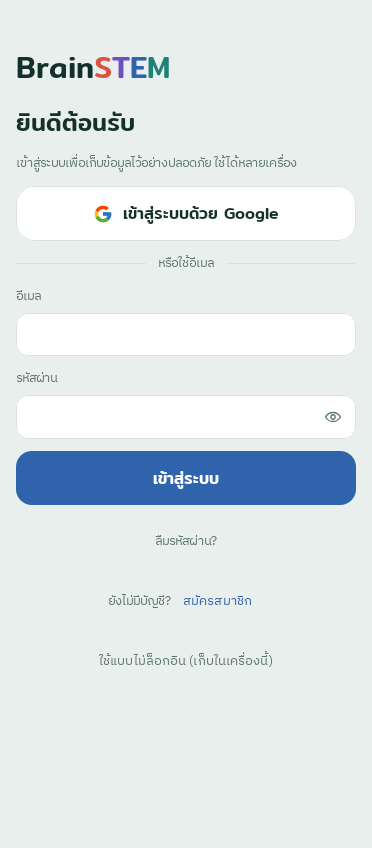
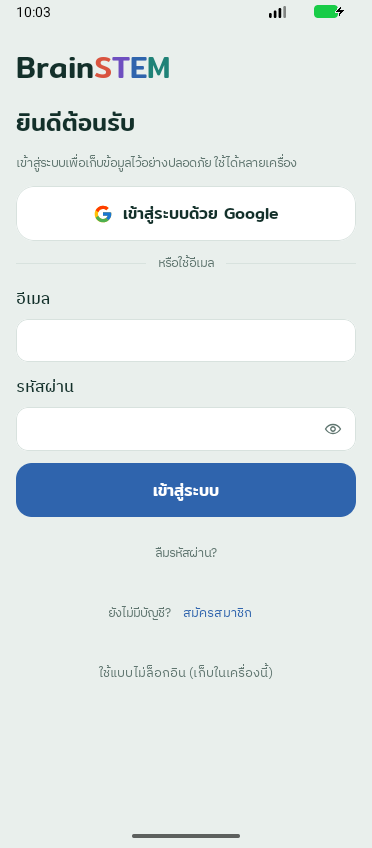
style(android): enlarge login field labels for readability

diff --git a/app/src/main/java/com/brainstem/stimulate/App.kt b/app/src/main/java/com/brainstem/stimulate/App.kt
@@ -245,11 +245,15 @@ fun LoginScreen(a: AppState, onGoogle: () -> Unit) {
             HorizontalDivider(Modifier.weight(1f), color = C.line)
         }
         Column(verticalArrangement = Arrangement.spacedBy(6.dp)) {
-            Note("อีเมล")
+            Label("อีเมล", size = 16, weight = FontWeight.Medium)
             InputField(email, { email = it }, "", KeyboardType.Email)
         }
         Column(verticalArrangement = Arrangement.spacedBy(6.dp)) {
-            Note("รหัสผ่าน" + if (signup) " (อย่างน้อย 6 ตัว)" else "")
+            Label(
+                "รหัสผ่าน" + if (signup) " (อย่างน้อย 6 ตัว)" else "",
+                size = 16,
+                weight = FontWeight.Medium,
+            )
             BasicTextField(
                 password,
                 { password = it },

diff --git a/docs/parity.md b/docs/parity.md
@@ -23,6 +23,7 @@ Reference: signed-in public web app, Stimulate module, inspected 2026-11-02. Nat
 
 - The bottom navigation bar is removed. The app opens directly to the Stimulate main screen after login; detail screens retain their back buttons. No Train, Evaluate, or Map routes exist.
 - Per the requested spacing trial, expanded program descriptions place the evidence badge on its own line, 6 dp below the text, instead of the reference's inline badge.
+- Login/sign-up email and password labels use 16 sp medium-weight ink text, increased from 12.5 sp muted text at the user's request for readability.
 - The 7-day strip leads to Stimulate History, keeping history available without Map.
 - IAPF is not measured or fetched from an excluded Evaluate module. Default preset frequencies are used.
 - Native status/navigation bars and adaptive screen sizing replace the website's phone mockup.
